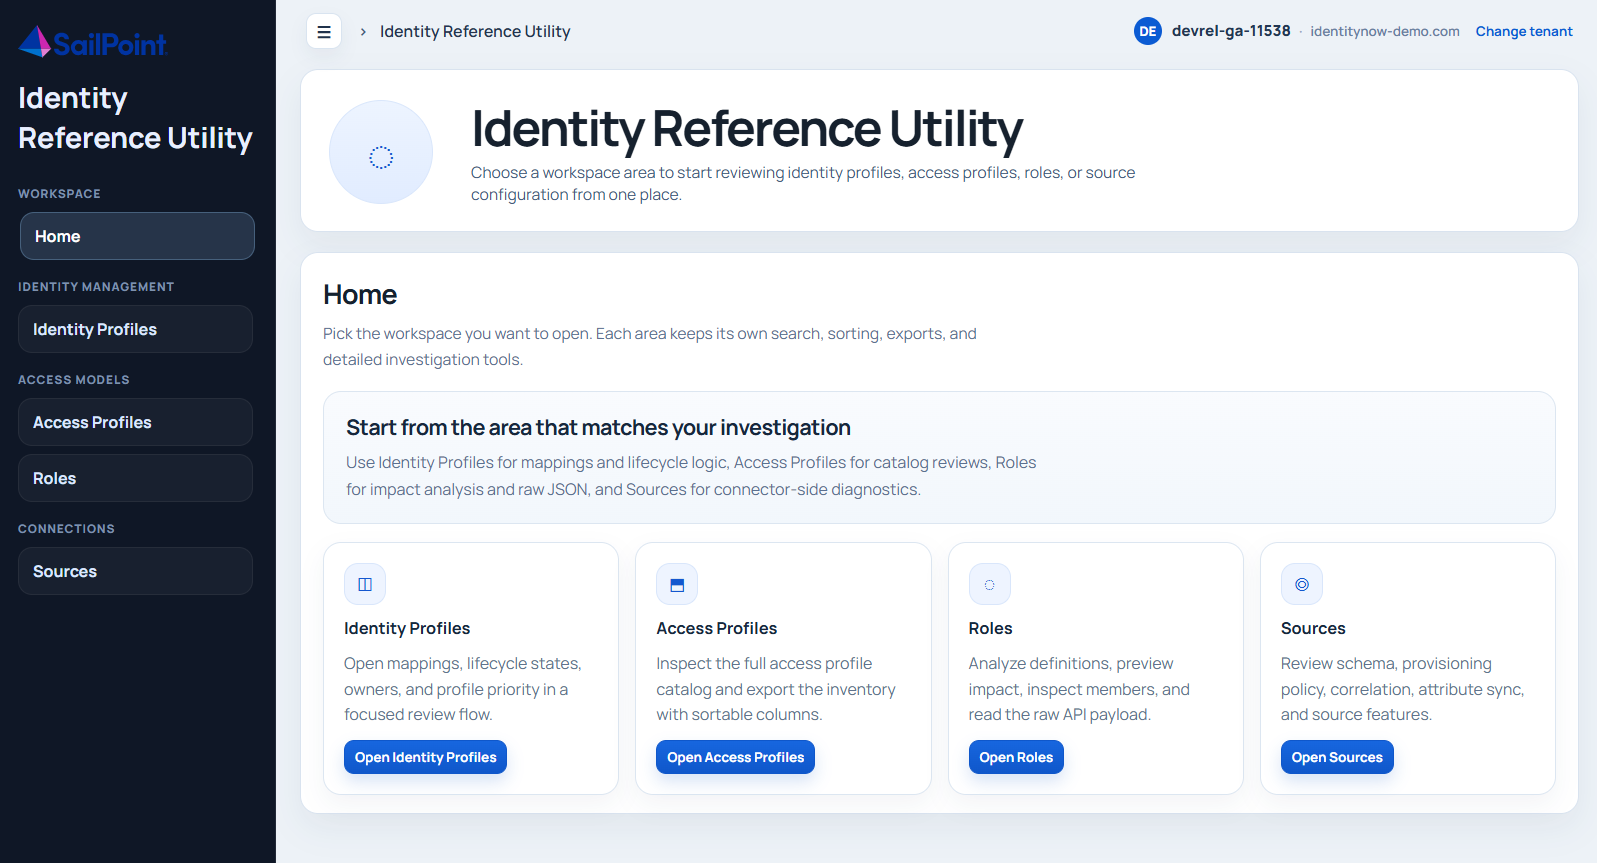
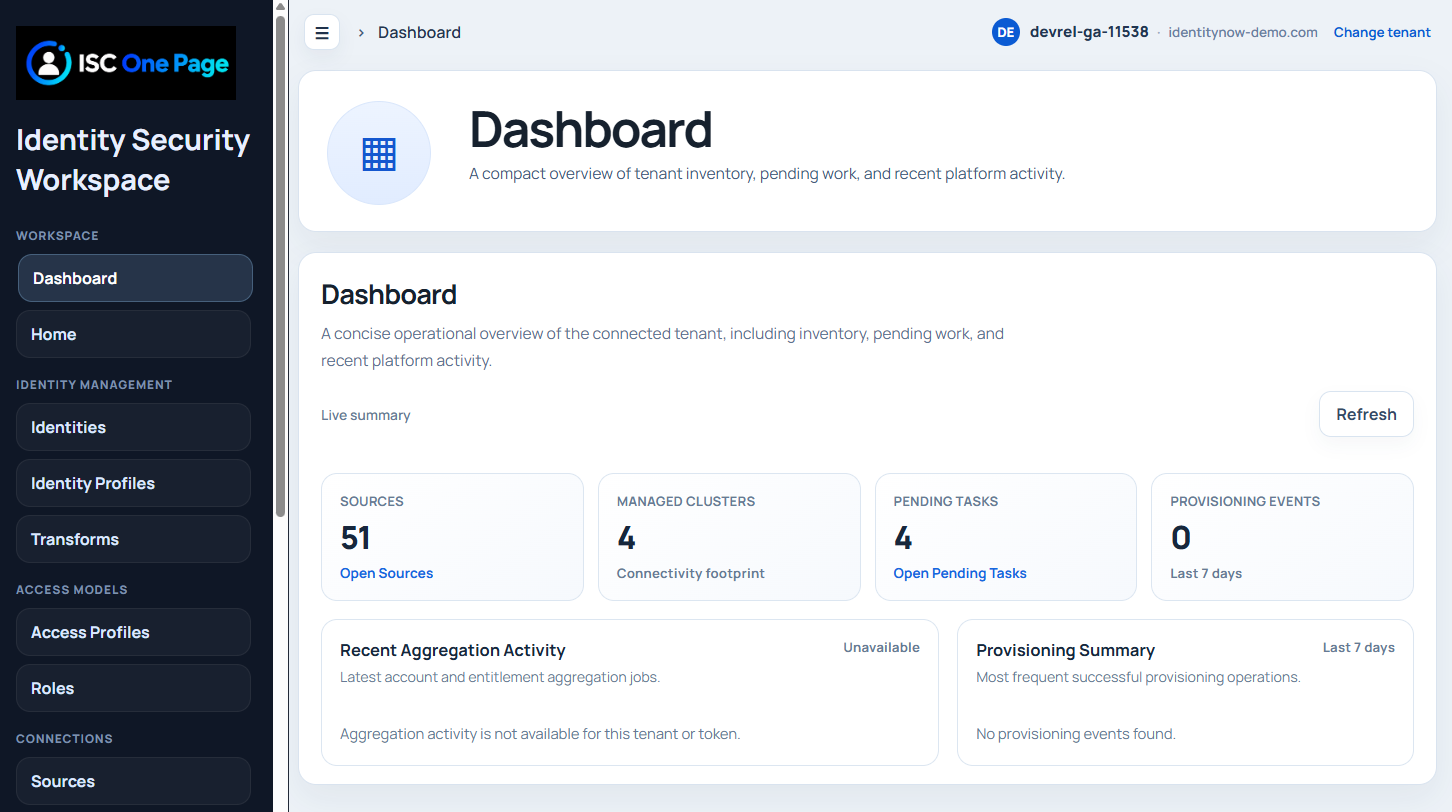
Hide SailPoint apps and update One Page preview

diff --git a/portfolio-data.js b/portfolio-data.js
@@ -16,6 +16,7 @@
                         url: "https://isc-ccg-log-reader.vercel.app/",
                         previewImage: "./assets/previews/isc-ccg-log-reader.png",
                         previewLabel: "Preview do Log Reader",
+                        private: true,
                         isNew: true
                     },
                     {
@@ -25,6 +26,7 @@
                         url: "https://isc-flat-file-manager.vercel.app/",
                         previewImage: "./assets/previews/isc-flat-file-manager.png",
                         previewLabel: "Preview do Flat File Manager",
+                        private: true,
                         isNew: true
                     },
                     {
@@ -34,6 +36,7 @@
                         url: "https://isc-access-history.vercel.app/",
                         previewImage: "./assets/previews/isc-access-history.png",
                         previewLabel: "Preview do Access History",
+                        private: true,
                         isNew: true
                     },
                     {
@@ -43,6 +46,7 @@
                         url: "https://isc-one-page.vercel.app/",
                         previewImage: "./assets/previews/isc-one-page.png",
                         previewLabel: "Preview do SailPoint One Page",
+                        private: true,
                         isNew: true
                     },
                     {
@@ -52,6 +56,7 @@
                         url: "https://isc-transform-manager.vercel.app/",
                         previewImage: "./assets/previews/isc-transform-manager.png",
                         previewLabel: "Preview do ISC Transform Manager",
+                        private: true,
                         beta: true,
                         isNew: true
                     },

diff --git a/shared.js b/shared.js
@@ -1,7 +1,7 @@
 (function () {
     const data = window.PORTFOLIO_DATA;
     const params = new URLSearchParams(window.location.search);
-    const privateMode = params.get("tag") === "moisesroth";
+    const privateMode = ["moises", "moisesroth"].includes(params.get("tag"));
 
     function escapeHtml(value) {
         return String(value)
